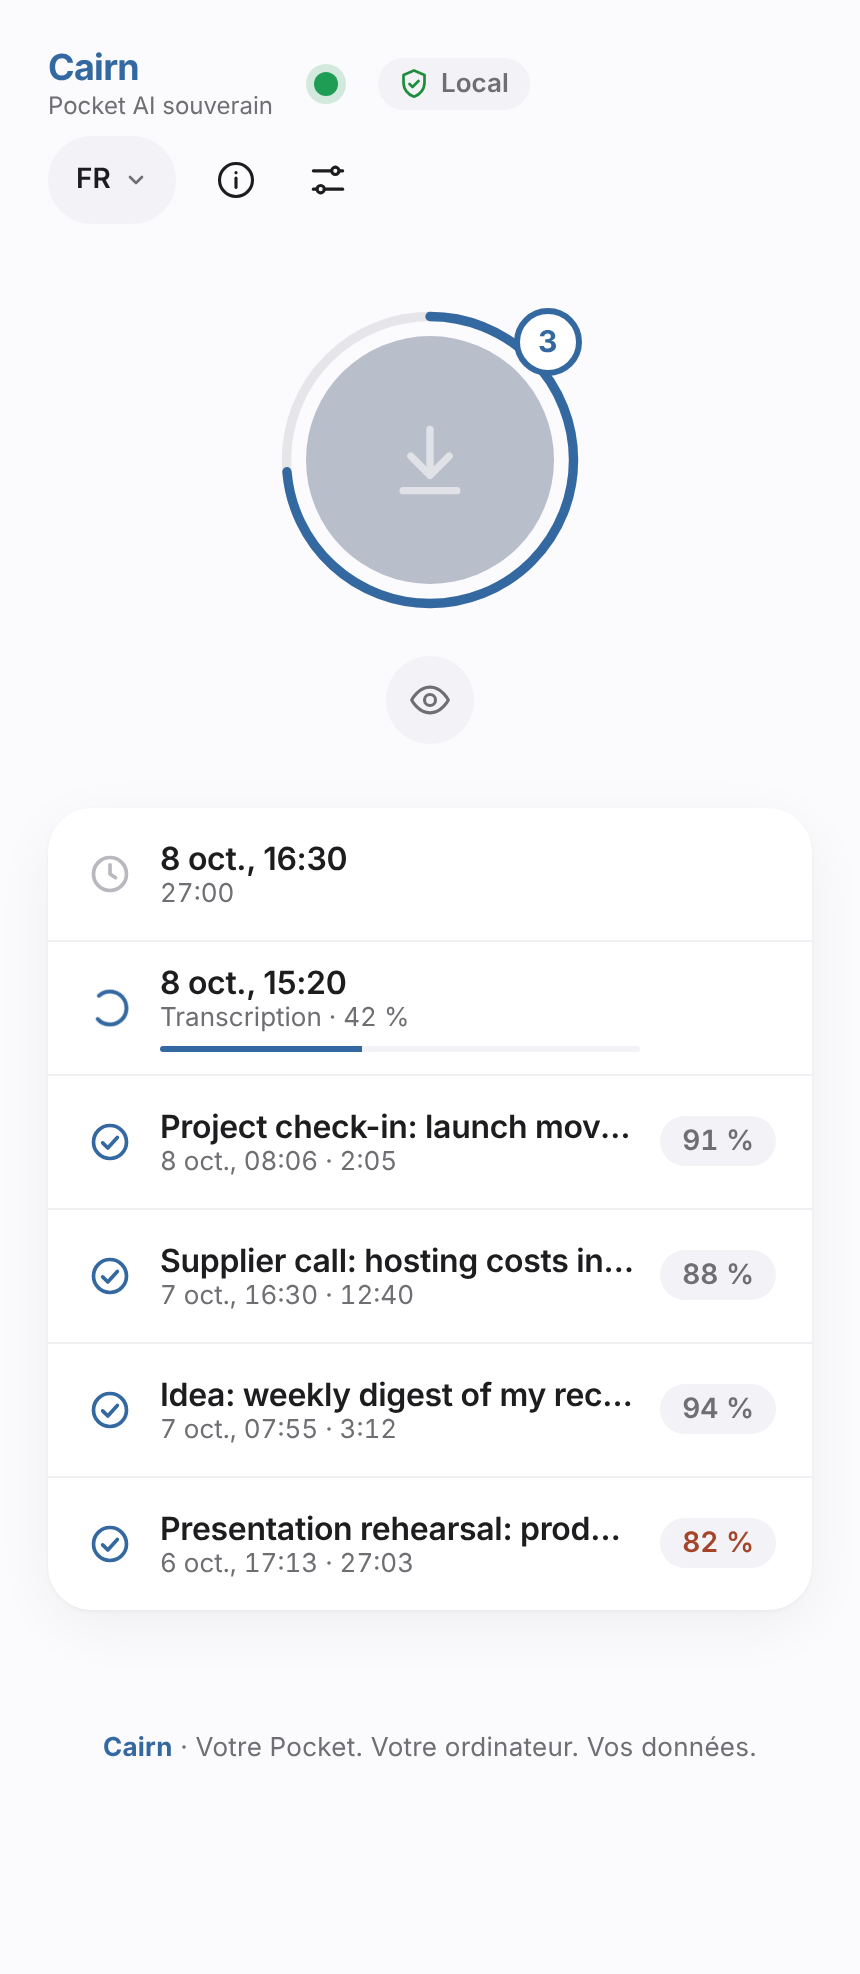
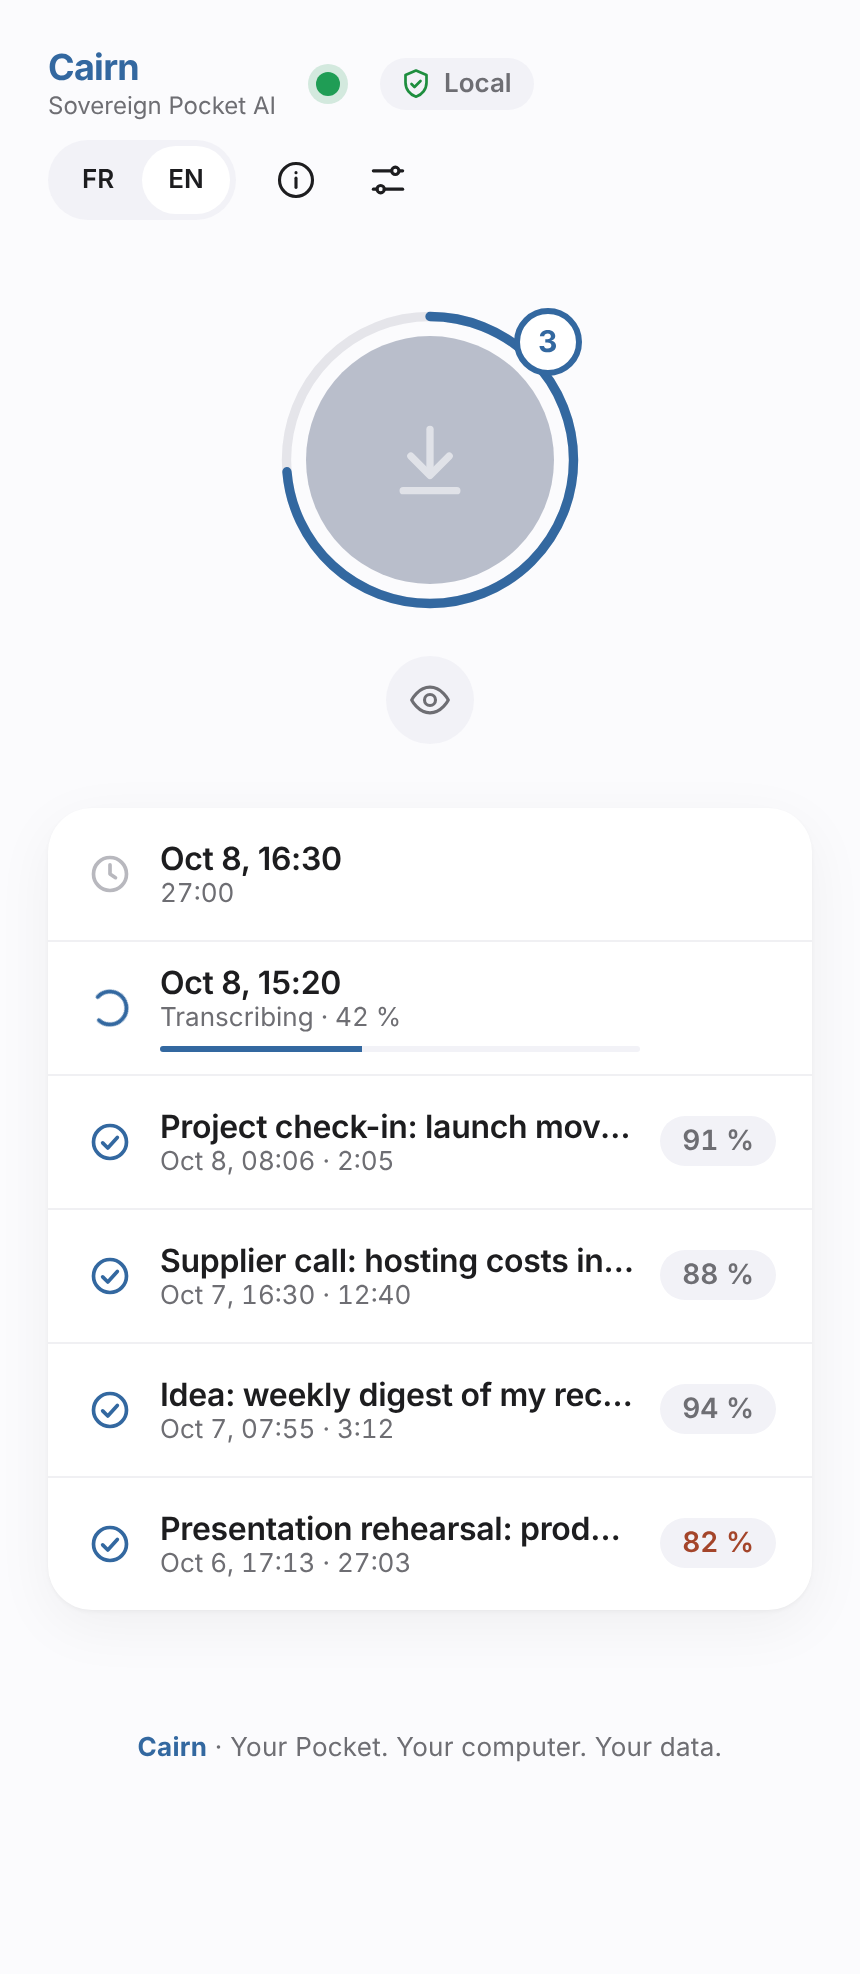
Level and language change on tap, export as an overlay list, language toggle restored
Claude-Session: https://claude.ai/code/session_011cjUvj5utwUPtNVyi6uca5

diff --git a/cairn/web/app.js b/cairn/web/app.js
@@ -83,7 +83,6 @@
   var I = {
     info: '<svg width="22" height="22" viewBox="0 0 24 24" fill="none" stroke="#1D1D1F" stroke-width="1.7" stroke-linecap="round" stroke-linejoin="round" aria-hidden="true"><circle cx="12" cy="12" r="9"></circle><path d="M12 11v5"></path><path d="M12 8h.01"></path></svg>',
     gear: '<svg width="22" height="22" viewBox="0 0 24 24" fill="none" stroke="#1D1D1F" stroke-width="1.7" stroke-linecap="round" stroke-linejoin="round" aria-hidden="true"><path d="M4 7h10"></path><path d="M18 7h2"></path><circle cx="16" cy="7" r="2"></circle><path d="M4 17h2"></path><path d="M10 17h10"></path><circle cx="8" cy="17" r="2"></circle></svg>',
-    chev: '<svg width="12" height="12" viewBox="0 0 24 24" fill="none" stroke="#6E6E73" stroke-width="2.6" stroke-linecap="round" stroke-linejoin="round" aria-hidden="true"><path d="M6 9l6 6 6-6"></path></svg>',
     doc: '<svg width="22" height="22" viewBox="0 0 24 24" fill="none" stroke="#6E6E73" stroke-width="1.7" stroke-linecap="round" stroke-linejoin="round" aria-hidden="true"><path d="M7 3h7l4 4v14H7z"></path><path d="M14 3v4h4"></path><path d="M10 12h5"></path><path d="M10 16h5"></path></svg>',
     folder: '<svg width="22" height="22" viewBox="0 0 24 24" fill="none" stroke="#6E6E73" stroke-width="1.7" stroke-linecap="round" stroke-linejoin="round" aria-hidden="true"><path d="M3 7a2 2 0 0 1 2-2h4l2 2h8a2 2 0 0 1 2 2v8a2 2 0 0 1-2 2H5a2 2 0 0 1-2-2z"></path></svg>',
     mic: '<svg width="22" height="22" viewBox="0 0 24 24" fill="none" stroke="#6E6E73" stroke-width="1.7" stroke-linecap="round" stroke-linejoin="round" aria-hidden="true"><rect x="9" y="3" width="6" height="11" rx="3"></rect><path d="M5 11a7 7 0 0 0 14 0"></path><path d="M12 18v3"></path></svg>',
@@ -117,7 +116,7 @@
 
   var S = {
     ui: null, hidden: true, settingsOpen: false, aboutOpen: false, open: null, edit: null, draft: "", exp: null,
-    delConfirm: false, emptyConfirm: false, verify: null, rr: "mid", rl: "en", menu: null, server: null, full: {}, about: null, upd: null,
+    delConfirm: false, emptyConfirm: false, verify: null, rr: "mid", rl: "en", server: null, full: {}, about: null, upd: null,
     folderEdit: false, folderDraft: "", wasRunning: false
   };
   var lastView = "";
@@ -135,26 +134,22 @@
   function noteLang(id) { var n = findNote(id); return (n && n.lang) || ui(); }
   function lvlIcon(k) { return '<svg width="20" height="20" viewBox="0 0 24 24" fill="none" stroke="#1D1D1F" stroke-width="2" stroke-linecap="round" aria-hidden="true">' + I.lvl[k] + "</svg>"; }
   var LANG_NAME = { fr: "Français", en: "English" };
-  function menuBtn(key, icon, label, hint) {
-    return '<button type="button" class="mbtn menu' + (S.menu === key ? " open" : "") + '" data-a="menu" data-v="' + key + '"' + tip(hint) + ">" + icon + (label ? "<span>" + esc(label) + "</span>" : "") + I.chev + "</button>";
+  function cycleBtn(key, icon, label, hint) {
+    return '<button type="button" class="mbtn menu" data-a="cycle" data-v="' + key + '"' + tip(hint) + ">" + icon + (label ? "<span>" + esc(label) + "</span>" : "") + "</button>";
   }
+  // One tap changes the choice and moves on to the next one: nothing opens, nothing moves.
   function optionBar(t) {
-    return menuBtn("lvl", lvlIcon(S.rr), "", t[S.rr] + " · " + t.levelHint) + menuBtn("lang", "", String(S.rl).toUpperCase(), t.langHint);
+    return cycleBtn("lvl", lvlIcon(S.rr), "", t.levelHint + " : " + t[S.rr]) + cycleBtn("lang", "", String(S.rl).toUpperCase(), t.langHint + " : " + (LANG_NAME[S.rl] || S.rl));
   }
   function exportList(n, t) {
     if (S.exp !== n.id) { return ""; }
-    return '<div class="opts" style="order:3"><button type="button" class="opt" data-a="expCopy"' + tip(t.copyRichHint) + ">" + I.copy.replace("#FFFFFF", "#1D1D1F") + '</button><button type="button" class="opt" data-a="expMd"' + tip(t.expMdHint) + '><span>MD</span></button><button type="button" class="opt" data-a="expHtml"' + tip(t.expHtmlHint) + "><span>HTML</span></button></div>";
+    return '<div class="pop-list"><button type="button" class="opt" data-a="expCopy"' + tip(t.copyRichHint) + ">" + I.copy.replace("#FFFFFF", "#1D1D1F") + '</button><button type="button" class="opt" data-a="expMd"' + tip(t.expMdHint) + '><span>MD</span></button><button type="button" class="opt" data-a="expHtml"' + tip(t.expHtmlHint) + "><span>HTML</span></button></div>";
   }
-  function optionList(t, which) {
-    if (!S.menu || (S.menu === "ui") !== (which === "ui")) { return ""; }
-    var isLevel = S.menu === "lvl", items = isLevel ? ["short", "mid", "full"] : ["fr", "en"];
-    var cur = isLevel ? S.rr : (S.menu === "ui" ? ui() : S.rl), act = isLevel ? "rr" : (S.menu === "ui" ? "ui" : "rl");
-    return '<div class="opts">' + items.map(function (k) {
-      return '<button type="button" class="opt' + (k === cur ? " on" : "") + '" data-a="' + act + '" data-v="' + k + '"' + tip(isLevel ? t[k + "Hint"] : LANG_NAME[k]) + ">" +
-        (isLevel ? lvlIcon(k) : "<span>" + k.toUpperCase() + "</span>") + "</button>";
+  function segLang(prefix, current, size, t, hint) {
+    return '<div class="seg ' + size + '">' + ["fr", "en"].map(function (k) {
+      return '<button type="button" class="' + (current === k ? "on" : "") + '" data-a="' + prefix + '" data-v="' + k + '"' + tip(hint) + ">" + k.toUpperCase() + "</button>";
     }).join("") + "</div>";
   }
-
   function api(method, path, body) {
     var opt = { method: method, headers: {} };
     if (method === "POST") { opt.headers["Content-Type"] = "application/json"; opt.headers["X-Cairn"] = "1"; opt.body = JSON.stringify(body || {}); }
@@ -313,12 +308,12 @@
     var passInk = n.quality != null && n.quality < 85 ? "var(--warn)" : "var(--mute)";
     h += '<div class="bar"><div class="row gap8" style="flex-wrap:wrap">' + optionBar(t) +
       '<button type="button" class="ib blue" data-a="rerun"' + (S.server && S.server.job && S.server.job.running ? " disabled" : "") + tip(t.redoHint) + ">" + I.refreshW + "</button></div>";
-    h += '<div class="row" style="gap:4px;order:2">';
+    h += '<div class="row" style="gap:4px">';
     h += '<button type="button" class="ib" data-a="viewText" data-id="' + esc(n.id) + '"' + tip(t.viewText) + ">" + I.doc.replace("#6E6E73", "#1D1D1F") + "</button>";
     h += '<button type="button" class="warn" data-a="copyDoubtful" style="color:' + passInk + '"' + tip(n.passages + t.passages + " · " + t.copilotHint) + ">" + (passInk === "var(--orange)" ? I.warnB.replace('width="16" height="16"', 'width="18" height="18"') : I.warnB.replace("#C86D51", "#6E6E73").replace('width="16" height="16"', 'width="18" height="18"')) + (n.passages || 0) + "</button>";
     h += '<button type="button" class="ib" data-a="startRename"' + tip(t.rename) + ">" + I.pencil + "</button>";
-    h += '<button type="button" class="ib' + (S.exp === n.id ? " on" : "") + '" data-a="toggleExport"' + tip(t.exportHint) + ">" + I.down + "</button>";
-    h += '<button type="button" class="ib" data-a="askDelete"' + tip(t.deleteHint) + ">" + I.trash + "</button></div>" + optionList(t) + exportList(n, t) + "</div>";
+    h += '<span class="pop"><button type="button" class="ib' + (S.exp === n.id ? " on" : "") + '" data-a="toggleExport"' + tip(t.exportHint) + ">" + I.down + "</button>" + exportList(n, t) + "</span>";
+    h += '<button type="button" class="ib" data-a="askDelete"' + tip(t.deleteHint) + ">" + I.trash + "</button></div></div>";
     if (S.delConfirm) { h += confirmBox(t.deleteConfirm, "confirmDelete", t); }
     if (n.error) { h += '<div class="err">' + esc(t.error + n.error) + "</div>"; }
     if (full && full.summary) {
@@ -355,7 +350,7 @@
         ? '<button type="button" class="mbtn" data-a="restoreOne" data-id="' + esc(n.id) + '">' + esc(t.putBack) + "</button>"
         : '<button type="button" class="mbtn" data-a="skipOne" data-id="' + esc(n.id) + '">' + esc(t.skipIt) + "</button>";
     }
-    return h + "</div>" + optionList(t) + "</div>";
+    return h + "</div></div>";
   }
 
   function viewList(t, st) {
@@ -390,10 +385,9 @@
     var pv = st.privacy, sc = !pv ? "#86868B" : (pv.ok ? "#1E8E3E" : "#A4452A");
     var pt = t.localHint + ". " + t.privAuto + ": " + (!pv ? t.privNone : (pv.ok ? t.privOk + " · " + fmtDate(pv.when) : t.privBad));
     h += '<span class="pill"' + tip(pt) + ">" + I.shield(sc, 18) + esc(t.local) + "</span></div>";
-    h += '<div class="row" style="gap:2px"><div style="margin-right:6px">' + menuBtn("ui", "", ui().toUpperCase(), t.uiLang) + "</div>";
+    h += '<div class="row" style="gap:2px"><div style="margin-right:6px"' + tip(t.uiLang) + ">" + segLang("ui", ui(), "s34", t, "") + "</div>";
     h += '<button type="button" class="ib plain' + bg(S.aboutOpen) + (st.update && st.update.available ? " upd" : "") + '" data-a="about"' + tip(t.about) + ">" + I.info + "</button>";
     h += '<button type="button" class="ib plain' + bg(S.settingsOpen) + '" data-a="settings"' + tip(t.settings) + ">" + I.gear + "</button></div></div>";
-    if (S.menu === "ui") { h += '<div style="margin:0 0 12px">' + optionList(t, "ui") + "</div>"; }
     if (S.settingsOpen) { h += viewSettings(t, st); }
     if (S.aboutOpen) { h += viewAbout(t); }
     h += '<div class="hero"><div class="ring"' + (job.running ? tip(stepText(job, t)) : "") + '><svg class="arc" width="156" height="156" viewBox="0 0 100 100" aria-hidden="true"><circle cx="50" cy="50" r="46" fill="none" stroke="#E5E5EA" stroke-width="3"></circle>' +
@@ -524,7 +518,7 @@
   }
 
   var A = {
-    ui: function (v) { S.ui = v; S.menu = null; api("POST", "/api/settings", { ui: v }).then(refresh); },
+    ui: function (v) { S.ui = v; api("POST", "/api/settings", { ui: v }).then(refresh); },
     autocheck: function (v) { api("POST", "/api/settings", { autocheck: v === "1" }).then(refresh); },
     settings: function () { S.settingsOpen = !S.settingsOpen; S.emptyConfirm = false; },
     about: function () {
@@ -539,15 +533,18 @@
     import: function () {
       api("POST", "/api/import").then(refresh).catch(function (e) { flash(T().error + e.message); });
     },
-    row: function (v, id) { S.open = S.open === id ? null : id; S.delConfirm = false; S.edit = null; S.exp = null; S.menu = null; S.rr = noteLevel(id); S.rl = noteLang(id); if (S.open) { loadFull(id); } },
-    menu: function (v) { S.menu = S.menu === v ? null : v; S.exp = null; },
+    row: function (v, id) { S.open = S.open === id ? null : id; S.delConfirm = false; S.edit = null; S.exp = null; S.rr = noteLevel(id); S.rl = noteLang(id); if (S.open) { loadFull(id); } },
+    cycle: function (v) {
+      var order = v === "lvl" ? ["short", "mid", "full"] : ["fr", "en"], cur = v === "lvl" ? S.rr : S.rl;
+      (v === "lvl" ? A.rr : A.rl)(order[(order.indexOf(cur) + 1) % order.length]);
+    },
     rr: function (v) {
-      S.rr = v; S.menu = null;
+      S.rr = v;
       var id = S.open, n = findNote(id);
       if (n && n.status !== "done") { api("POST", "/api/note/" + encodeURIComponent(id) + "/options", { level: v }).then(refresh); }
     },
     rl: function (v) {
-      S.rl = v; S.menu = null;
+      S.rl = v;
       var id = S.open, n = findNote(id);
       if (n && n.status !== "done") { api("POST", "/api/note/" + encodeURIComponent(id) + "/options", { lang: v }).then(refresh); }
     },
@@ -569,10 +566,10 @@
       if (!title) { return; }
       api("POST", "/api/note/" + encodeURIComponent(id) + "/rename", { title: title }).then(function () { S.edit = null; flash(T().renamed); delete S.full[id]; refresh(); });
     },
-    toggleExport: function () { S.exp = S.exp === S.open ? null : S.open; S.menu = null; },
-    expMd: function () { download(S.open, "md"); },
-    expHtml: function () { download(S.open, "html"); },
-    expCopy: function () { copyRich(S.open).catch(function () { flash(T().error + "clipboard"); }); },
+    toggleExport: function () { S.exp = S.exp === S.open ? null : S.open; },
+    expMd: function () { S.exp = null; download(S.open, "md"); },
+    expHtml: function () { S.exp = null; download(S.open, "html"); },
+    expCopy: function () { S.exp = null; copyRich(S.open).catch(function () { flash(T().error + "clipboard"); }); },
     viewText: function (v, id) { showText(id); },
     askDelete: function () { S.delConfirm = true; },
     confirmDelete: function () {
@@ -625,6 +622,7 @@
   };
 
   document.addEventListener("click", function (ev) {
+    if (S.exp && !ev.target.closest(".pop")) { S.exp = null; render(); }
     var el = ev.target.closest("[data-a]");
     if (!el || el.disabled) { return; }
     var fn = A[el.getAttribute("data-a")];
@@ -635,7 +633,7 @@
     if (ev.target.id === "folderInput") { S.folderDraft = ev.target.value; }
   });
   document.addEventListener("keydown", function (ev) {
-    if (ev.key === "Escape") { closeText(); }
+    if (ev.key === "Escape") { closeText(); if (S.exp) { S.exp = null; render(); } }
     if (ev.key === "Enter" && ev.target.id === "nameInput") { A.saveName(); }
     if (ev.key === "Enter" && ev.target.id === "folderInput") { A.folderSave(); }
   });

diff --git a/cairn/web/style.css b/cairn/web/style.css
@@ -81,11 +81,11 @@ svg{flex-shrink:0}
 .mbody{overflow:auto;padding:4px 22px 22px;font-size:15px;line-height:1.6;color:var(--ink2)}
 .mbody p{margin:0 0 12px}.mbody .ts{color:var(--mute);font-variant-numeric:tabular-nums;margin-right:8px;font-size:13px}
 .mbody p.dbt{background:var(--orange-bg);border-radius:8px;padding:4px 8px;margin-left:-8px;margin-right:-8px}
-.mbtn.menu{display:inline-flex;align-items:center;gap:7px;padding:0 14px;min-height:44px}.mbtn.menu.open{background:#E5E5EA}.mbtn.menu svg{flex:none}
-.detail .bar .opts{flex:0 0 100%;order:1}
-.opts{display:flex;gap:4px;background:var(--soft);border-radius:999px;padding:4px;align-self:flex-start}
-.opt{display:flex;align-items:center;justify-content:center;min-width:52px;min-height:40px;padding:0 12px;border:0;border-radius:999px;background:transparent;font:inherit;font-weight:600;font-size:14px;color:var(--ink);cursor:pointer}
-.opt.on{background:var(--card);box-shadow:0 1px 3px rgba(0,0,0,.08)}
+.mbtn.menu{display:inline-flex;align-items:center;gap:7px;padding:0 16px;min-height:44px}.mbtn.menu svg{flex:none}
+.pop{position:relative;display:inline-flex}
+.pop-list{position:absolute;top:calc(100% + 8px);right:0;z-index:20;display:flex;flex-direction:column;gap:2px;min-width:92px;background:var(--card);border-radius:16px;padding:5px;box-shadow:0 10px 34px rgba(0,0,0,.18),0 1px 3px rgba(0,0,0,.08)}
+.opt{display:flex;align-items:center;justify-content:center;min-height:42px;padding:0 14px;border:0;border-radius:11px;background:transparent;font:inherit;font-weight:600;font-size:14px;color:var(--ink);cursor:pointer}
+.opt:hover{background:var(--soft)}
 .mbtn.blue{background:var(--blue);color:#fff}.mbtn:disabled{opacity:.4;cursor:default}
 .mtag{font-size:13px;font-weight:600;color:#1B7F3B}
 .pbar{display:block;height:3px;border-radius:2px;background:var(--soft);margin-top:6px;overflow:hidden}.pbar>span{display:block;height:100%;background:var(--blue);transition:width .6s ease}
